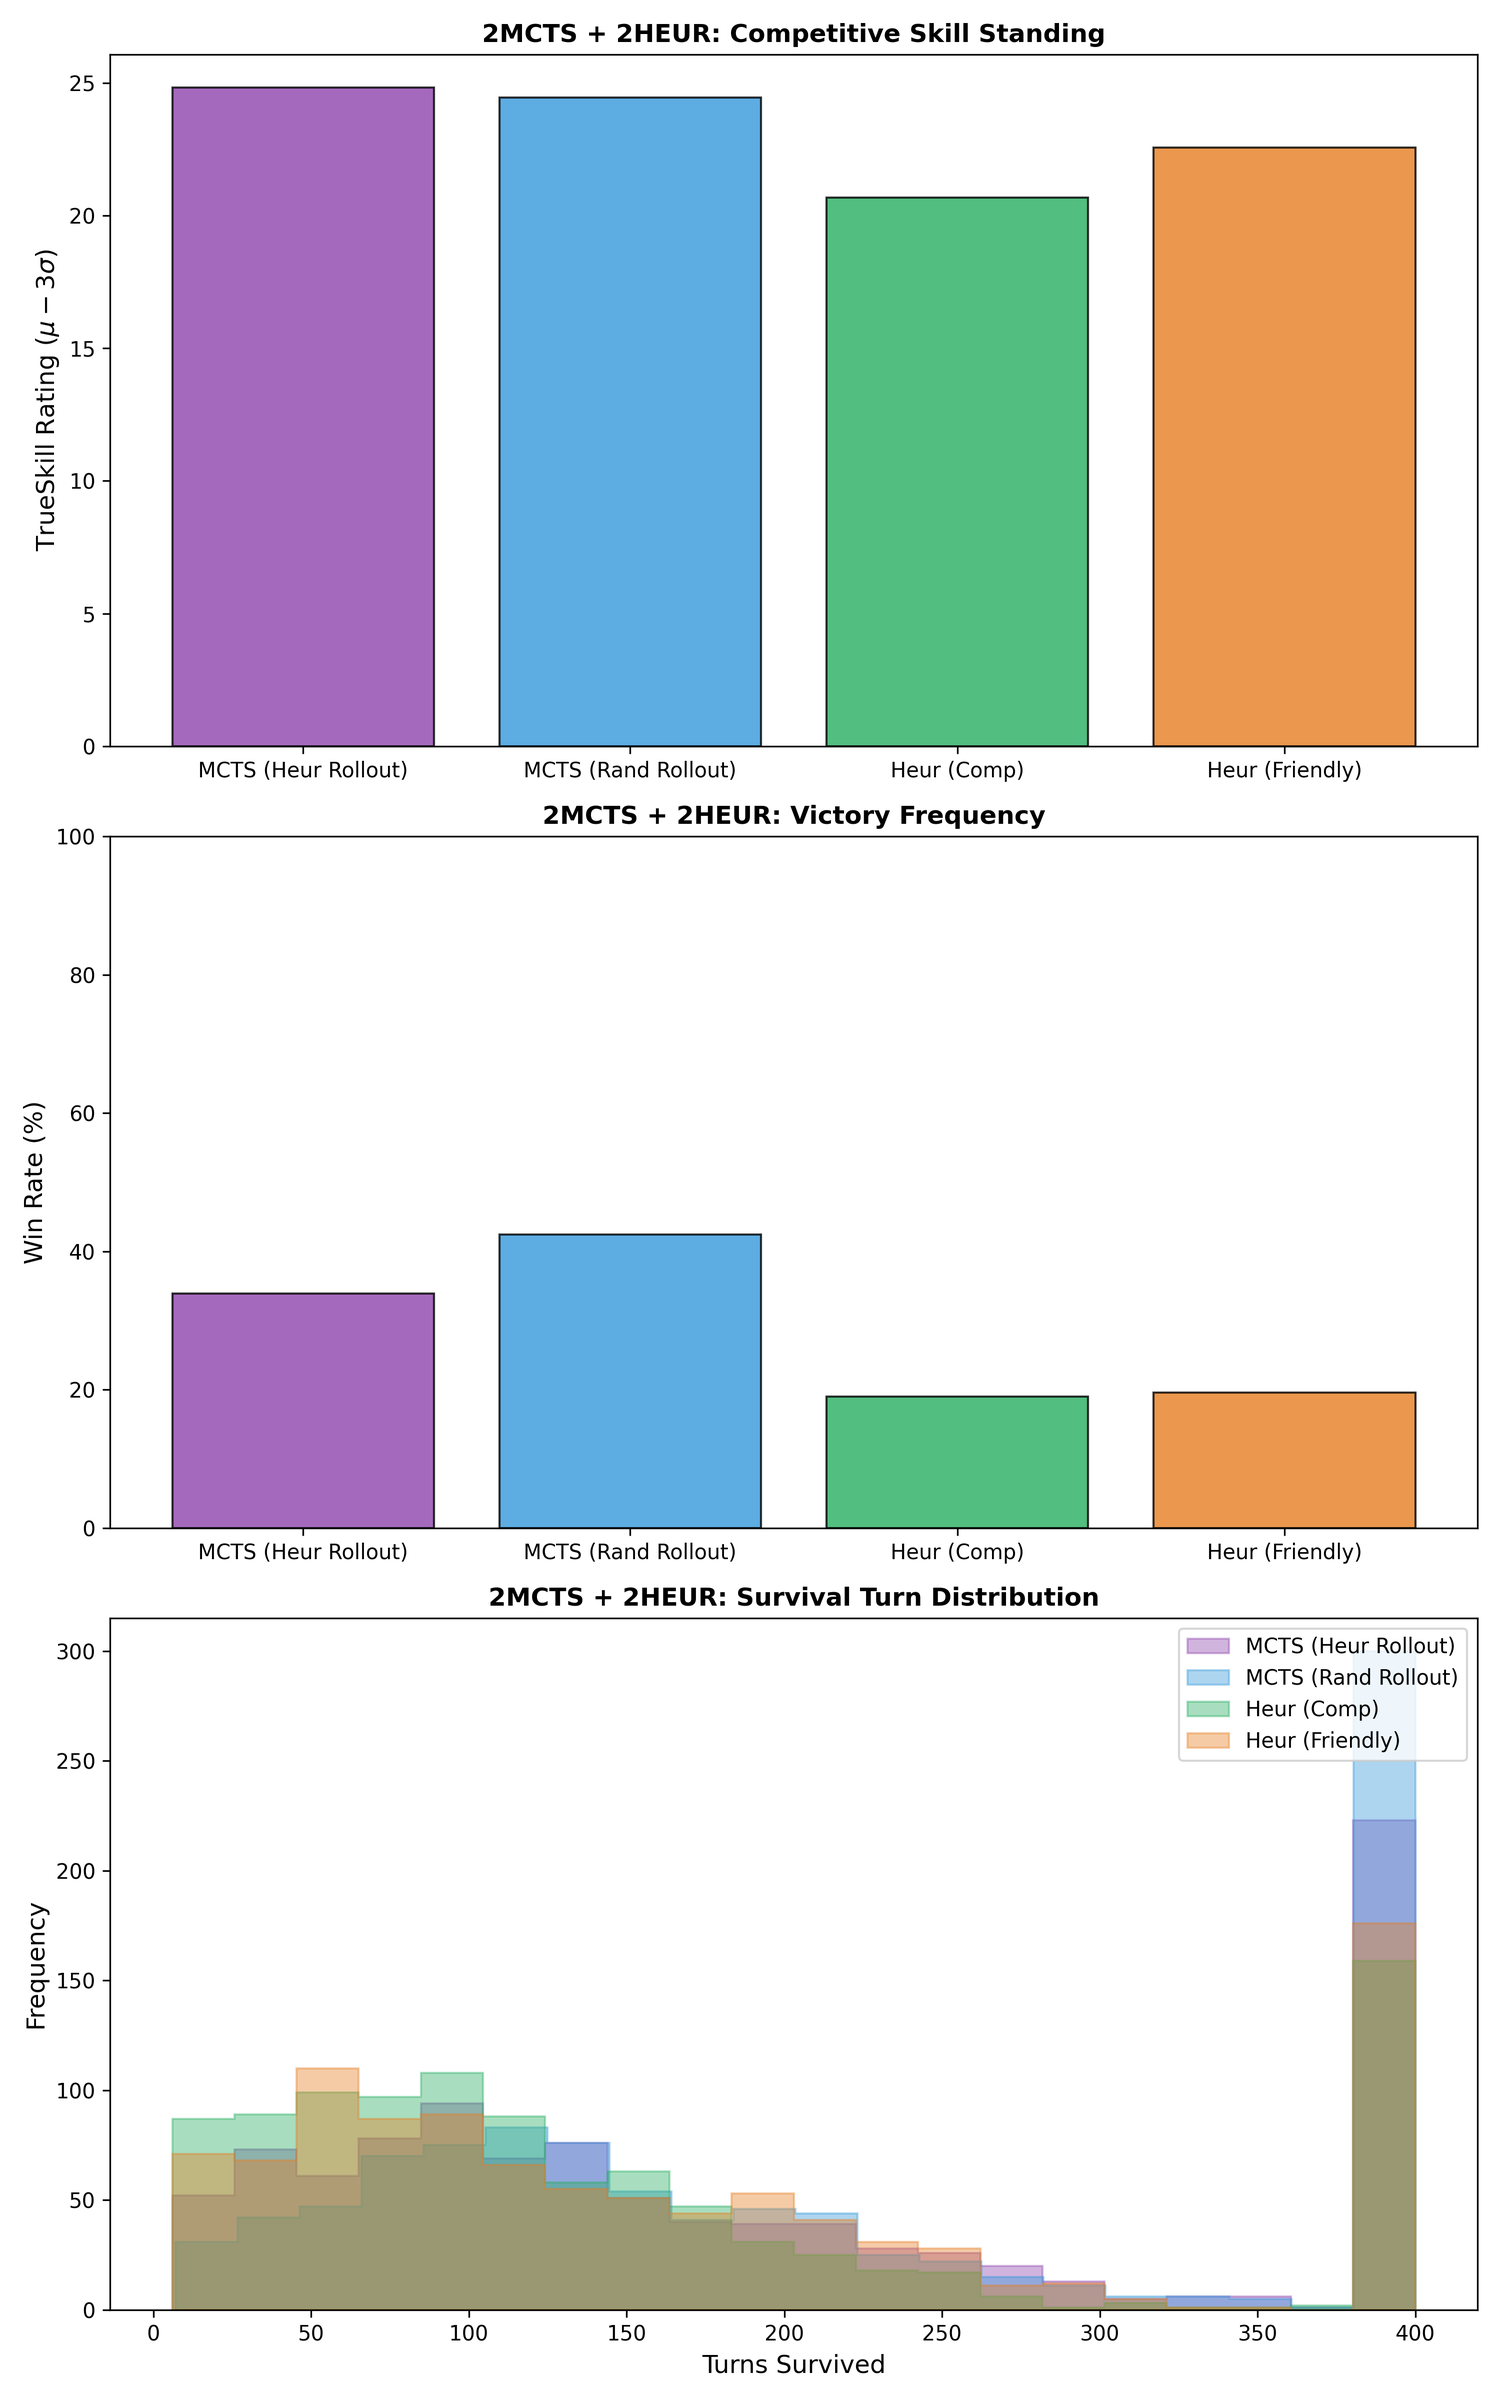
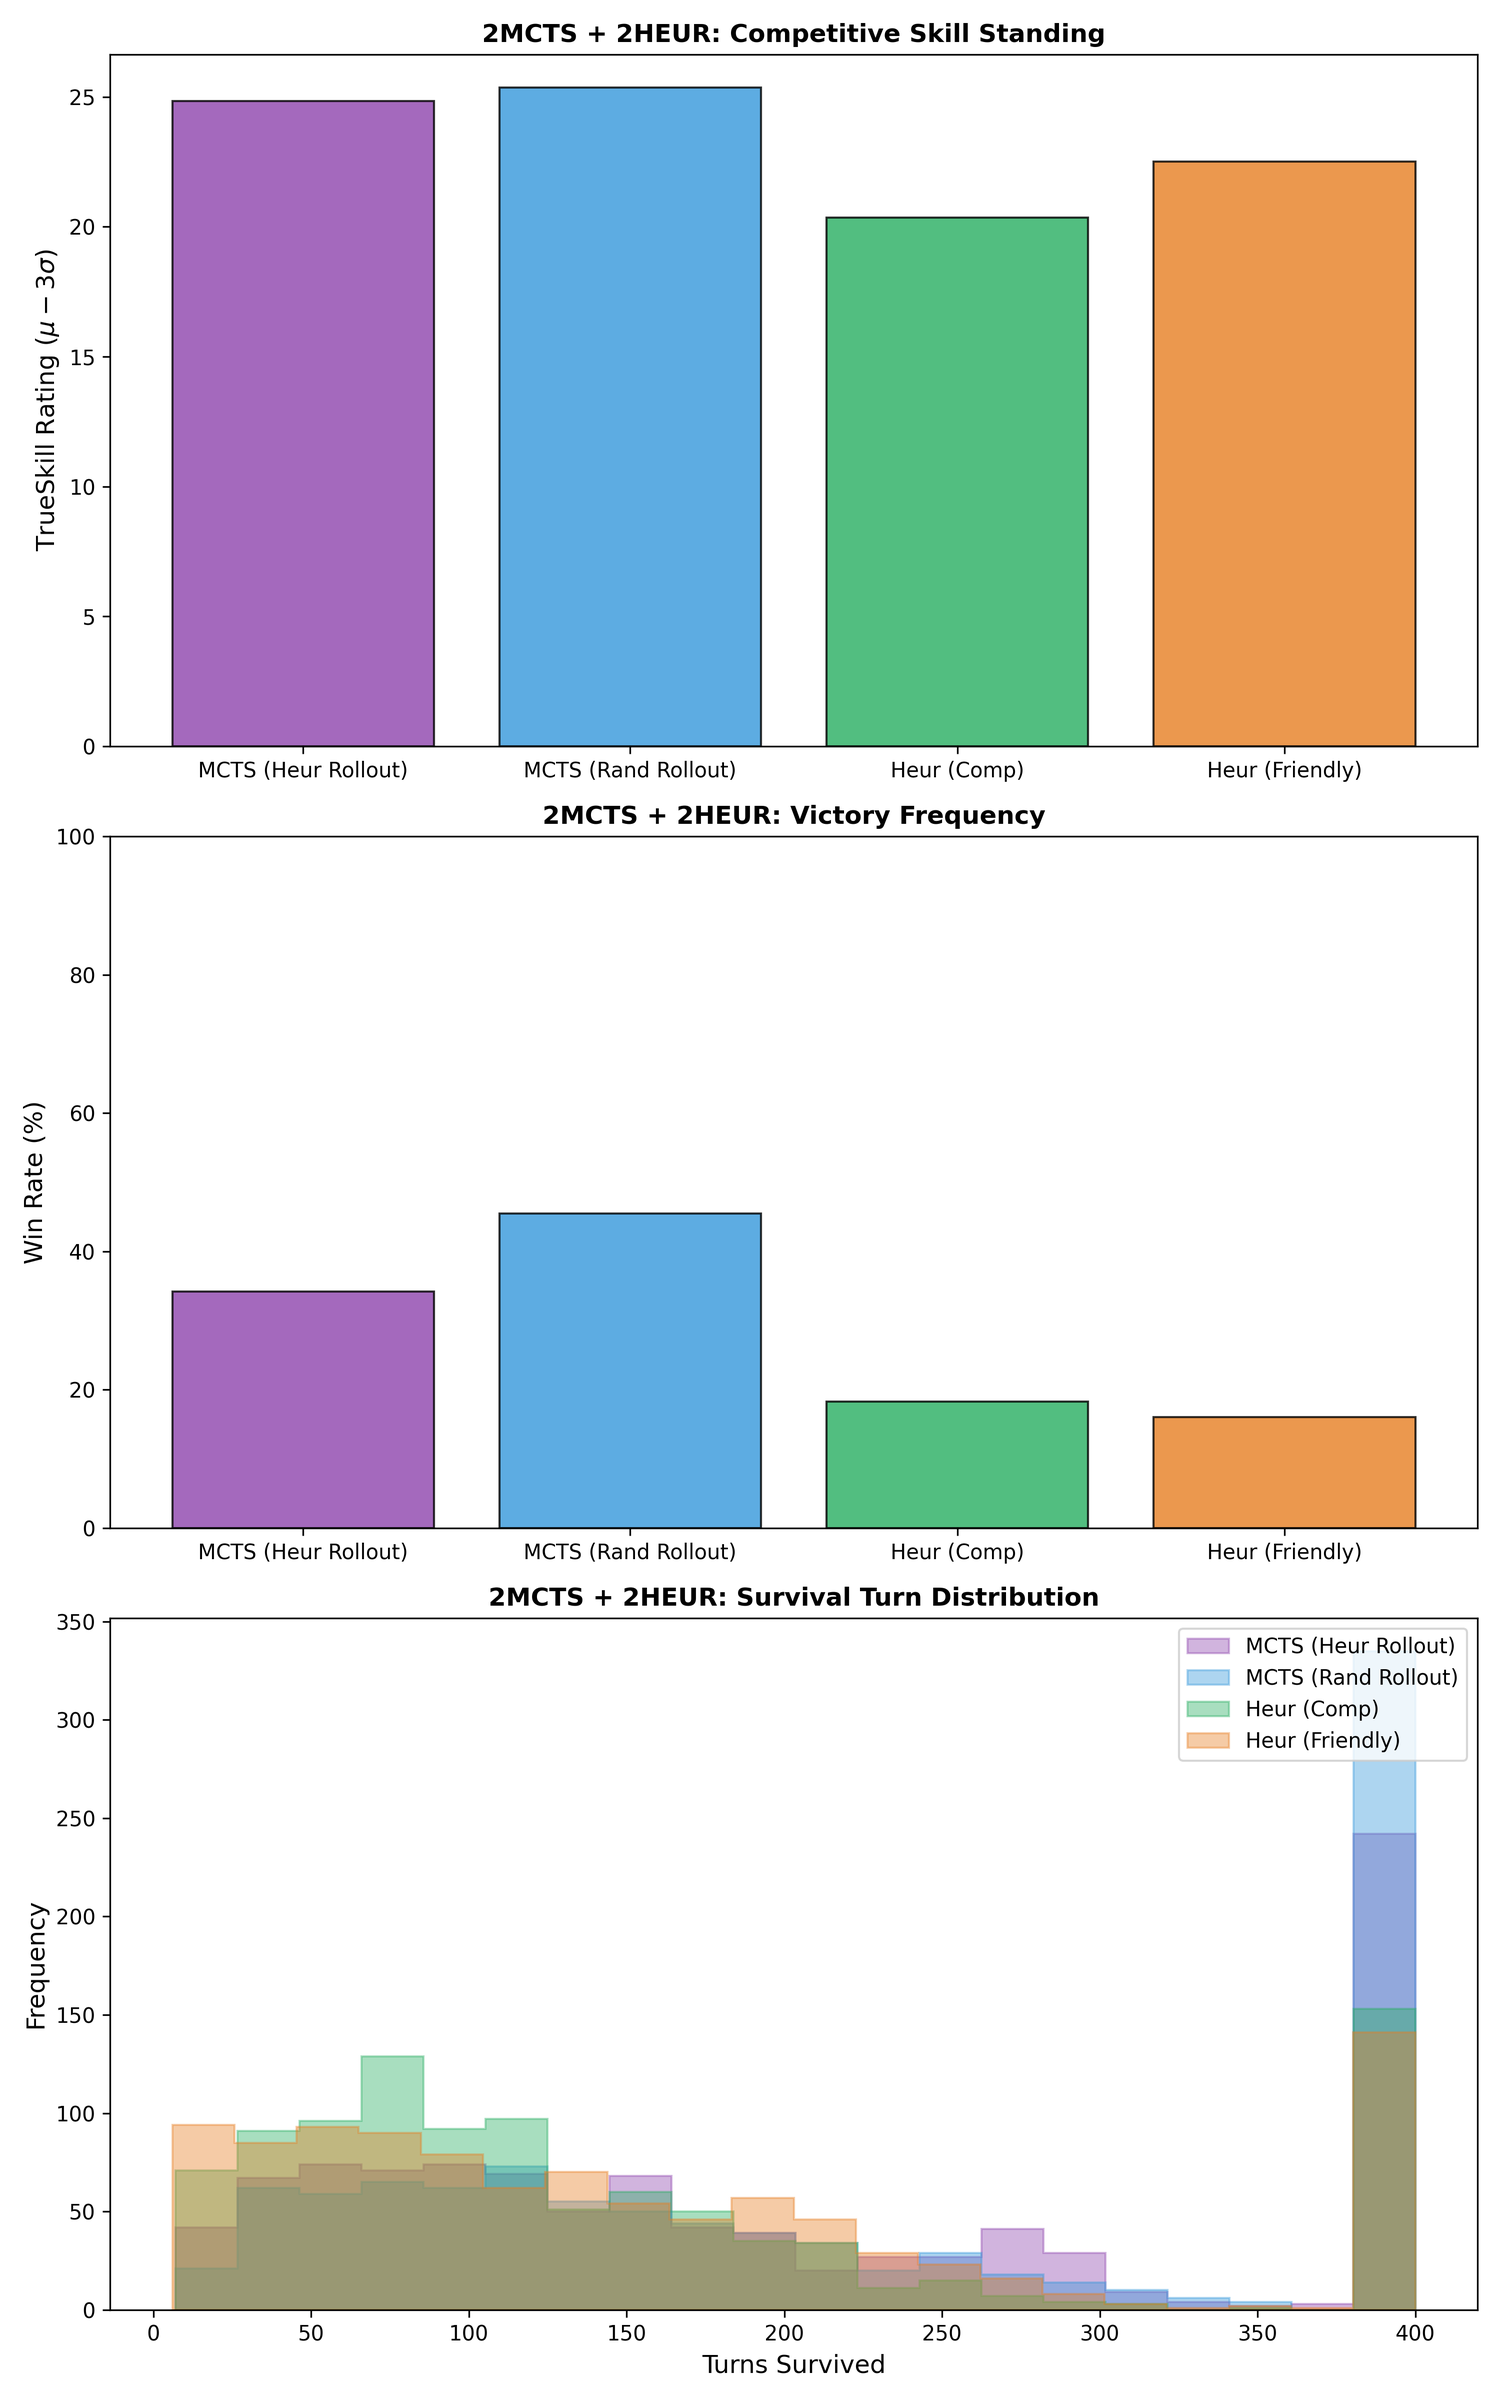
fix hyperparameter values

diff --git a/tournament.py b/tournament.py
@@ -85,8 +85,8 @@ def _mcts_wrapper(state, snake_id, use_heuristic_rollout, pb_val=2.5, use_rave=F
         api_dict, 
         heuristic=use_heuristic_rollout, 
         competitive=False,
-        exploration_constant=7.9,
-        max_rollout=120,
+        exploration_constant=4.4,
+        max_rollout=20,
         pb_weight=pb_val,
         rave=use_rave
     )
@@ -374,7 +374,7 @@ def run_tournament(n_games, seed, test_type="Cp", opponent="heuristic"):
 
         # 1. TrueSkill Comparison
         ax1.plot(final_vals, final_ts, 'o-', color=mcts_color, linewidth=2, markersize=8, label='MCTS Team')
-        ax1.axhline(y=heur_ts_val, color=heur_color, linestyle='--', linewidth=2, label='Heuristic Baseline')
+        ax1.axhline(y=heur_ts_val, color=heur_color, linestyle='--', linewidth=2, label='Baseline')
         ax1.set_ylabel(r'TrueSkill ($\mu - 3\sigma$)', fontsize=12)
         ax1.set_title(f"Hyperparameter Tuning: {test_type} vs Skill Rating", fontweight='bold')
         ax1.legend(loc='best')
@@ -390,7 +390,7 @@ def run_tournament(n_games, seed, test_type="Cp", opponent="heuristic"):
 
         # 3. Average Survival Turns
         ax3.plot(final_vals, final_avgs, 's-', color=mcts_color, linewidth=2, markersize=8, label='MCTS Avg Survival')
-        ax3.axhline(y=heur_surv_baseline, color=heur_color, linestyle='--', linewidth=2, label='Heuristic Avg Survival')
+        ax3.axhline(y=heur_surv_baseline, color=heur_color, linestyle='--', linewidth=2, label='Baseline Avg Survival')
         ax3.set_xlabel(f"Hyperparameter Value ({test_type})", fontsize=12)
         ax3.set_ylabel("Average Turns", fontsize=12)
         ax3.set_title(f"Hyperparameter Tuning: {test_type} vs Longevity", fontweight='bold')
